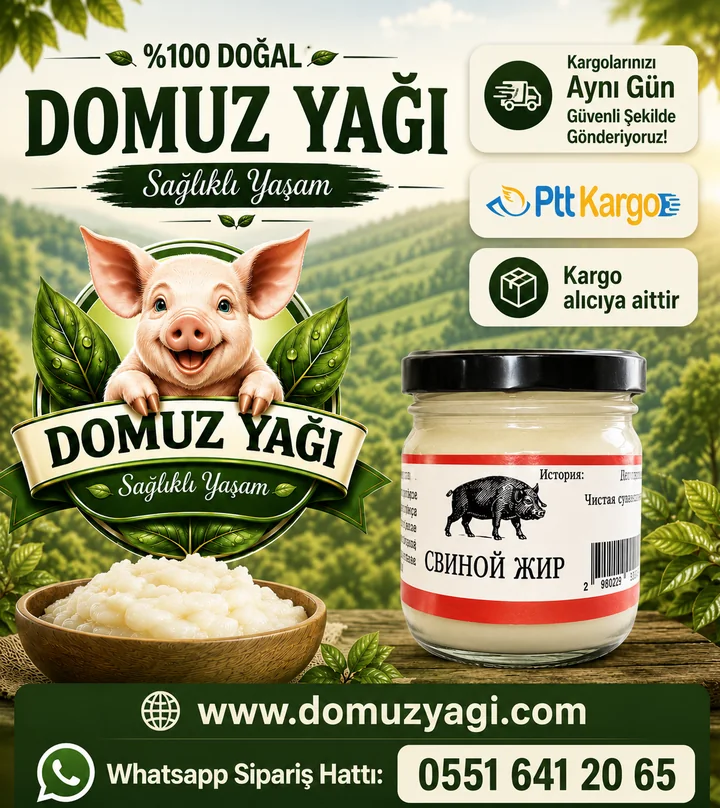
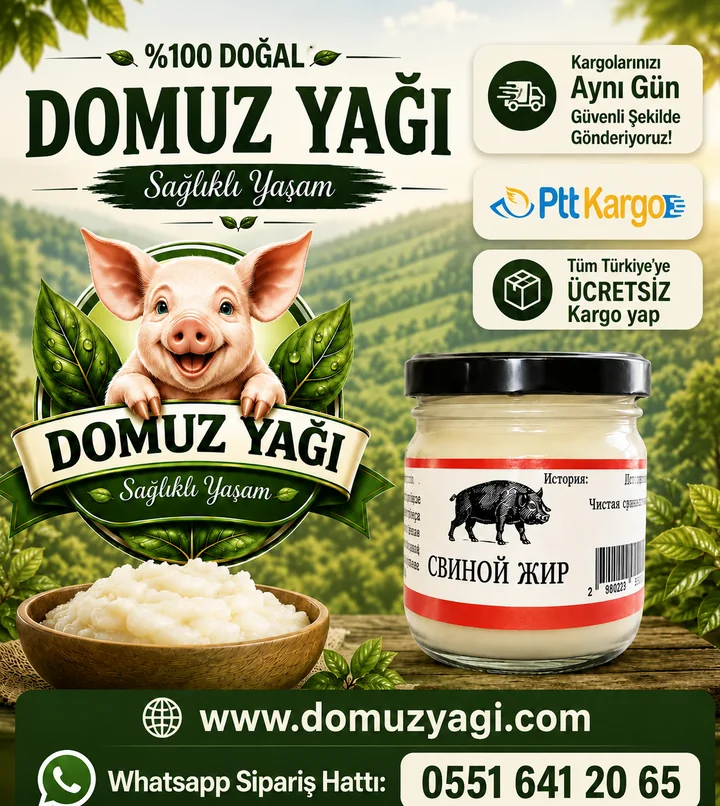
Yeni hero afişi yerleştirildi (kargo ibaresi düzelmiş)
- Afişte artık 'Tüm Türkiye'ye ÜCRETSİZ Kargo' yazıyor; siteyle çelişen
  'Kargo alıcıya aittir' kutucuğu kalkmış
- Yine PNG içerikliydi (2,2 MB) → gerçek WebP 223 KB + 720 px türevi 115 KB
- Ölçü 1185×1327: img width/height ve .hero-frame aspect-ratio güncellendi

VER 33

diff --git a/index.html b/index.html
@@ -32,7 +32,7 @@
 <link rel="preload" as="image" href="/images/hero-urun.webp"
       imagesrcset="/images/hero-urun-720.webp 720w, /images/hero-urun.webp 1184w"
       imagesizes="(max-width:960px) 92vw, 46vw" fetchpriority="high">
-<link rel="stylesheet" href="assets/site.css?v=32">
+<link rel="stylesheet" href="assets/site.css?v=33">
 
 <script async src="https://www.googletagmanager.com/gtag/js?id=AW-17831951098"></script>
 <script>
@@ -584,7 +584,7 @@
              srcset="/images/hero-urun-720.webp 720w, /images/hero-urun.webp 1184w"
              sizes="(max-width:960px) 92vw, 46vw"
              alt="Doğal Domuz Yağı tanıtım görseli: cam kavanozda domuz yağı, PTT Kargo ile gönderim ve 0551 641 20 65 sipariş hattı"
-             width="1184" height="1328" fetchpriority="high">
+             width="1185" height="1327" fetchpriority="high">
       </div>
     </div>
     <div class="hero-buy">
@@ -1234,6 +1234,6 @@
 <!-- URUN-JS:BAŞ -->
 <script>window.DY_CFG={"whatsapp":"905516412065","esik":0,"hepbedava":true,"saat":[9,21],"kargo":0,"urunler":{"DY-050":{"ad":"Domuz Yağı 50 gr","fiyat":450},"DY-115":{"ad":"Domuz Yağı 115 gr","fiyat":700},"DY-250":{"ad":"Domuz Yağı 250 gr","fiyat":1500},"DY-5LI":{"ad":"Domuz Yağı 5'li Paket (5 × 115 gr)","fiyat":2500},"DY-1KG":{"ad":"Domuz Yağı 1 kg","fiyat":5000}}};</script>
       <!-- URUN-JS:SON -->
-<script src="assets/site.js?v=32" defer></script>
+<script src="assets/site.js?v=33" defer></script>
 </body>
 </html>

diff --git a/domuz-yagi-nasil-kullanilir/index.html b/domuz-yagi-nasil-kullanilir/index.html
@@ -29,7 +29,7 @@
 <link rel="preload" as="font" type="font/woff2" href="/assets/fonts/inter-latin.woff2" crossorigin>
 <link rel="preload" as="font" type="font/woff2" href="/assets/fonts/manrope-latin.woff2" crossorigin>
 <script type="speculationrules">{"prefetch":[{"where":{"href_matches":"/*"},"eagerness":"moderate"}]}</script>
-<link rel="stylesheet" href="../assets/site.css?v=32">
+<link rel="stylesheet" href="../assets/site.css?v=33">
 
 <script async src="https://www.googletagmanager.com/gtag/js?id=AW-17831951098"></script>
 <script>
@@ -493,6 +493,6 @@ C: Kullanmayı bırakın, cildinizi temizleyin. 24 saat içinde geçmezse doktor
 </div>
 
 <script>window.DY_CFG={"whatsapp":"905516412065","esik":0,"kargo":0,"hepbedava":true,"saat":[9,21],"urunler":{"DY-050":{"ad":"Domuz Yağı 50 gr","fiyat":450},"DY-115":{"ad":"Domuz Yağı 115 gr","fiyat":700},"DY-250":{"ad":"Domuz Yağı 250 gr","fiyat":1500},"DY-5LI":{"ad":"Domuz Yağı 5'li Paket (5 × 115 gr)","fiyat":2500},"DY-1KG":{"ad":"Domuz Yağı 1 kg","fiyat":5000}}};</script>
-<script src="../assets/site.js?v=32" defer></script>
+<script src="../assets/site.js?v=33" defer></script>
 </body>
 </html>

diff --git a/urun/domuz-yagi-1-kg/index.html b/urun/domuz-yagi-1-kg/index.html
@@ -30,7 +30,7 @@
 <link rel="preload" as="font" type="font/woff2" href="/assets/fonts/inter-latin.woff2" crossorigin>
 <link rel="preload" as="font" type="font/woff2" href="/assets/fonts/manrope-latin.woff2" crossorigin>
 <script type="speculationrules">{"prefetch":[{"where":{"href_matches":"/*"},"eagerness":"moderate"}]}</script>
-<link rel="stylesheet" href="../../assets/site.css?v=32">
+<link rel="stylesheet" href="../../assets/site.css?v=33">
 
 <script async src="https://www.googletagmanager.com/gtag/js?id=AW-17831951098"></script>
 <script>
@@ -600,6 +600,6 @@
 </div>
 
 <script>window.DY_CFG={"whatsapp":"905516412065","esik":0,"kargo":0,"hepbedava":true,"saat":[9,21],"urunler":{"DY-050":{"ad":"Domuz Yağı 50 gr","fiyat":450},"DY-115":{"ad":"Domuz Yağı 115 gr","fiyat":700},"DY-250":{"ad":"Domuz Yağı 250 gr","fiyat":1500},"DY-5LI":{"ad":"Domuz Yağı 5'li Paket (5 × 115 gr)","fiyat":2500},"DY-1KG":{"ad":"Domuz Yağı 1 kg","fiyat":5000}}};</script>
-<script src="../../assets/site.js?v=32" defer></script>
+<script src="../../assets/site.js?v=33" defer></script>
 </body>
 </html>

diff --git a/urun/domuz-yagi-115-gr/index.html b/urun/domuz-yagi-115-gr/index.html
@@ -30,7 +30,7 @@
 <link rel="preload" as="font" type="font/woff2" href="/assets/fonts/inter-latin.woff2" crossorigin>
 <link rel="preload" as="font" type="font/woff2" href="/assets/fonts/manrope-latin.woff2" crossorigin>
 <script type="speculationrules">{"prefetch":[{"where":{"href_matches":"/*"},"eagerness":"moderate"}]}</script>
-<link rel="stylesheet" href="../../assets/site.css?v=32">
+<link rel="stylesheet" href="../../assets/site.css?v=33">
 
 <script async src="https://www.googletagmanager.com/gtag/js?id=AW-17831951098"></script>
 <script>
@@ -600,6 +600,6 @@
 </div>
 
 <script>window.DY_CFG={"whatsapp":"905516412065","esik":0,"kargo":0,"hepbedava":true,"saat":[9,21],"urunler":{"DY-050":{"ad":"Domuz Yağı 50 gr","fiyat":450},"DY-115":{"ad":"Domuz Yağı 115 gr","fiyat":700},"DY-250":{"ad":"Domuz Yağı 250 gr","fiyat":1500},"DY-5LI":{"ad":"Domuz Yağı 5'li Paket (5 × 115 gr)","fiyat":2500},"DY-1KG":{"ad":"Domuz Yağı 1 kg","fiyat":5000}}};</script>
-<script src="../../assets/site.js?v=32" defer></script>
+<script src="../../assets/site.js?v=33" defer></script>
 </body>
 </html>

diff --git a/urun/domuz-yagi-250-gr/index.html b/urun/domuz-yagi-250-gr/index.html
@@ -30,7 +30,7 @@
 <link rel="preload" as="font" type="font/woff2" href="/assets/fonts/inter-latin.woff2" crossorigin>
 <link rel="preload" as="font" type="font/woff2" href="/assets/fonts/manrope-latin.woff2" crossorigin>
 <script type="speculationrules">{"prefetch":[{"where":{"href_matches":"/*"},"eagerness":"moderate"}]}</script>
-<link rel="stylesheet" href="../../assets/site.css?v=32">
+<link rel="stylesheet" href="../../assets/site.css?v=33">
 
 <script async src="https://www.googletagmanager.com/gtag/js?id=AW-17831951098"></script>
 <script>
@@ -600,6 +600,6 @@
 </div>
 
 <script>window.DY_CFG={"whatsapp":"905516412065","esik":0,"kargo":0,"hepbedava":true,"saat":[9,21],"urunler":{"DY-050":{"ad":"Domuz Yağı 50 gr","fiyat":450},"DY-115":{"ad":"Domuz Yağı 115 gr","fiyat":700},"DY-250":{"ad":"Domuz Yağı 250 gr","fiyat":1500},"DY-5LI":{"ad":"Domuz Yağı 5'li Paket (5 × 115 gr)","fiyat":2500},"DY-1KG":{"ad":"Domuz Yağı 1 kg","fiyat":5000}}};</script>
-<script src="../../assets/site.js?v=32" defer></script>
+<script src="../../assets/site.js?v=33" defer></script>
 </body>
 </html>

diff --git a/urun/domuz-yagi-50-gr/index.html b/urun/domuz-yagi-50-gr/index.html
@@ -30,7 +30,7 @@
 <link rel="preload" as="font" type="font/woff2" href="/assets/fonts/inter-latin.woff2" crossorigin>
 <link rel="preload" as="font" type="font/woff2" href="/assets/fonts/manrope-latin.woff2" crossorigin>
 <script type="speculationrules">{"prefetch":[{"where":{"href_matches":"/*"},"eagerness":"moderate"}]}</script>
-<link rel="stylesheet" href="../../assets/site.css?v=32">
+<link rel="stylesheet" href="../../assets/site.css?v=33">
 
 <script async src="https://www.googletagmanager.com/gtag/js?id=AW-17831951098"></script>
 <script>
@@ -600,6 +600,6 @@
 </div>
 
 <script>window.DY_CFG={"whatsapp":"905516412065","esik":0,"kargo":0,"hepbedava":true,"saat":[9,21],"urunler":{"DY-050":{"ad":"Domuz Yağı 50 gr","fiyat":450},"DY-115":{"ad":"Domuz Yağı 115 gr","fiyat":700},"DY-250":{"ad":"Domuz Yağı 250 gr","fiyat":1500},"DY-5LI":{"ad":"Domuz Yağı 5'li Paket (5 × 115 gr)","fiyat":2500},"DY-1KG":{"ad":"Domuz Yağı 1 kg","fiyat":5000}}};</script>
-<script src="../../assets/site.js?v=32" defer></script>
+<script src="../../assets/site.js?v=33" defer></script>
 </body>
 </html>

diff --git a/urun/domuz-yagi-5li-paket/index.html b/urun/domuz-yagi-5li-paket/index.html
@@ -30,7 +30,7 @@
 <link rel="preload" as="font" type="font/woff2" href="/assets/fonts/inter-latin.woff2" crossorigin>
 <link rel="preload" as="font" type="font/woff2" href="/assets/fonts/manrope-latin.woff2" crossorigin>
 <script type="speculationrules">{"prefetch":[{"where":{"href_matches":"/*"},"eagerness":"moderate"}]}</script>
-<link rel="stylesheet" href="../../assets/site.css?v=32">
+<link rel="stylesheet" href="../../assets/site.css?v=33">
 
 <script async src="https://www.googletagmanager.com/gtag/js?id=AW-17831951098"></script>
 <script>
@@ -600,6 +600,6 @@
 </div>
 
 <script>window.DY_CFG={"whatsapp":"905516412065","esik":0,"kargo":0,"hepbedava":true,"saat":[9,21],"urunler":{"DY-050":{"ad":"Domuz Yağı 50 gr","fiyat":450},"DY-115":{"ad":"Domuz Yağı 115 gr","fiyat":700},"DY-250":{"ad":"Domuz Yağı 250 gr","fiyat":1500},"DY-5LI":{"ad":"Domuz Yağı 5'li Paket (5 × 115 gr)","fiyat":2500},"DY-1KG":{"ad":"Domuz Yağı 1 kg","fiyat":5000}}};</script>
-<script src="../../assets/site.js?v=32" defer></script>
+<script src="../../assets/site.js?v=33" defer></script>
 </body>
 </html>

diff --git a/domuz-yagi-fiyatlari/index.html b/domuz-yagi-fiyatlari/index.html
@@ -29,7 +29,7 @@
 <link rel="preload" as="font" type="font/woff2" href="/assets/fonts/inter-latin.woff2" crossorigin>
 <link rel="preload" as="font" type="font/woff2" href="/assets/fonts/manrope-latin.woff2" crossorigin>
 <script type="speculationrules">{"prefetch":[{"where":{"href_matches":"/*"},"eagerness":"moderate"}]}</script>
-<link rel="stylesheet" href="../assets/site.css?v=32">
+<link rel="stylesheet" href="../assets/site.css?v=33">
 
 <script async src="https://www.googletagmanager.com/gtag/js?id=AW-17831951098"></script>
 <script>
@@ -401,6 +401,6 @@
 </div>
 
 <script>window.DY_CFG={"whatsapp":"905516412065","esik":0,"kargo":0,"hepbedava":true,"saat":[9,21],"urunler":{"DY-050":{"ad":"Domuz Yağı 50 gr","fiyat":450},"DY-115":{"ad":"Domuz Yağı 115 gr","fiyat":700},"DY-250":{"ad":"Domuz Yağı 250 gr","fiyat":1500},"DY-5LI":{"ad":"Domuz Yağı 5'li Paket (5 × 115 gr)","fiyat":2500},"DY-1KG":{"ad":"Domuz Yağı 1 kg","fiyat":5000}}};</script>
-<script src="../assets/site.js?v=32" defer></script>
+<script src="../assets/site.js?v=33" defer></script>
 </body>
 </html>

diff --git a/domuz-yaginin-faydalari/index.html b/domuz-yaginin-faydalari/index.html
@@ -29,7 +29,7 @@
 <link rel="preload" as="font" type="font/woff2" href="/assets/fonts/inter-latin.woff2" crossorigin>
 <link rel="preload" as="font" type="font/woff2" href="/assets/fonts/manrope-latin.woff2" crossorigin>
 <script type="speculationrules">{"prefetch":[{"where":{"href_matches":"/*"},"eagerness":"moderate"}]}</script>
-<link rel="stylesheet" href="../assets/site.css?v=32">
+<link rel="stylesheet" href="../assets/site.css?v=33">
 
 <script async src="https://www.googletagmanager.com/gtag/js?id=AW-17831951098"></script>
 <script>
@@ -397,6 +397,6 @@
 </div>
 
 <script>window.DY_CFG={"whatsapp":"905516412065","esik":0,"kargo":0,"hepbedava":true,"saat":[9,21],"urunler":{"DY-050":{"ad":"Domuz Yağı 50 gr","fiyat":450},"DY-115":{"ad":"Domuz Yağı 115 gr","fiyat":700},"DY-250":{"ad":"Domuz Yağı 250 gr","fiyat":1500},"DY-5LI":{"ad":"Domuz Yağı 5'li Paket (5 × 115 gr)","fiyat":2500},"DY-1KG":{"ad":"Domuz Yağı 1 kg","fiyat":5000}}};</script>
-<script src="../assets/site.js?v=32" defer></script>
+<script src="../assets/site.js?v=33" defer></script>
 </body>
 </html>

diff --git a/domuz-yaginin-hayvanlara-faydalari/index.html b/domuz-yaginin-hayvanlara-faydalari/index.html
@@ -29,7 +29,7 @@
 <link rel="preload" as="font" type="font/woff2" href="/assets/fonts/inter-latin.woff2" crossorigin>
 <link rel="preload" as="font" type="font/woff2" href="/assets/fonts/manrope-latin.woff2" crossorigin>
 <script type="speculationrules">{"prefetch":[{"where":{"href_matches":"/*"},"eagerness":"moderate"}]}</script>
-<link rel="stylesheet" href="../assets/site.css?v=32">
+<link rel="stylesheet" href="../assets/site.css?v=33">
 
 <script async src="https://www.googletagmanager.com/gtag/js?id=AW-17831951098"></script>
 <script>
@@ -438,6 +438,6 @@
 </div>
 
 <script>window.DY_CFG={"whatsapp":"905516412065","esik":0,"kargo":0,"hepbedava":true,"saat":[9,21],"urunler":{"DY-050":{"ad":"Domuz Yağı 50 gr","fiyat":450},"DY-115":{"ad":"Domuz Yağı 115 gr","fiyat":700},"DY-250":{"ad":"Domuz Yağı 250 gr","fiyat":1500},"DY-5LI":{"ad":"Domuz Yağı 5'li Paket (5 × 115 gr)","fiyat":2500},"DY-1KG":{"ad":"Domuz Yağı 1 kg","fiyat":5000}}};</script>
-<script src="../assets/site.js?v=32" defer></script>
+<script src="../assets/site.js?v=33" defer></script>
 </body>
 </html>

diff --git a/domuz-yaginin-insanlara-faydalari/index.html b/domuz-yaginin-insanlara-faydalari/index.html
@@ -29,7 +29,7 @@
 <link rel="preload" as="font" type="font/woff2" href="/assets/fonts/inter-latin.woff2" crossorigin>
 <link rel="preload" as="font" type="font/woff2" href="/assets/fonts/manrope-latin.woff2" crossorigin>
 <script type="speculationrules">{"prefetch":[{"where":{"href_matches":"/*"},"eagerness":"moderate"}]}</script>
-<link rel="stylesheet" href="../assets/site.css?v=32">
+<link rel="stylesheet" href="../assets/site.css?v=33">
 
 <script async src="https://www.googletagmanager.com/gtag/js?id=AW-17831951098"></script>
 <script>
@@ -400,6 +400,6 @@
 </div>
 
 <script>window.DY_CFG={"whatsapp":"905516412065","esik":0,"kargo":0,"hepbedava":true,"saat":[9,21],"urunler":{"DY-050":{"ad":"Domuz Yağı 50 gr","fiyat":450},"DY-115":{"ad":"Domuz Yağı 115 gr","fiyat":700},"DY-250":{"ad":"Domuz Yağı 250 gr","fiyat":1500},"DY-5LI":{"ad":"Domuz Yağı 5'li Paket (5 × 115 gr)","fiyat":2500},"DY-1KG":{"ad":"Domuz Yağı 1 kg","fiyat":5000}}};</script>
-<script src="../assets/site.js?v=32" defer></script>
+<script src="../assets/site.js?v=33" defer></script>
 </body>
 </html>

diff --git a/gizlilik-politikasi/index.html b/gizlilik-politikasi/index.html
@@ -18,7 +18,7 @@
 <link rel="preload" as="font" type="font/woff2" href="/assets/fonts/inter-latin.woff2" crossorigin>
 <link rel="preload" as="font" type="font/woff2" href="/assets/fonts/manrope-latin.woff2" crossorigin>
 <script type="speculationrules">{"prefetch":[{"where":{"href_matches":"/*"},"eagerness":"moderate"}]}</script>
-<link rel="stylesheet" href="../assets/site.css?v=32">
+<link rel="stylesheet" href="../assets/site.css?v=33">
 <script type="application/ld+json">
 {
   "@context": "https://schema.org",
@@ -262,6 +262,6 @@
 </div>
 
 <script>window.DY_CFG={"whatsapp":"905516412065","esik":0,"kargo":0,"hepbedava":true,"saat":[9,21],"urunler":{"DY-050":{"ad":"Domuz Yağı 50 gr","fiyat":450},"DY-115":{"ad":"Domuz Yağı 115 gr","fiyat":700},"DY-250":{"ad":"Domuz Yağı 250 gr","fiyat":1500},"DY-5LI":{"ad":"Domuz Yağı 5'li Paket (5 × 115 gr)","fiyat":2500},"DY-1KG":{"ad":"Domuz Yağı 1 kg","fiyat":5000}}};</script>
-<script src="../assets/site.js?v=32" defer></script>
+<script src="../assets/site.js?v=33" defer></script>
 </body>
 </html>
